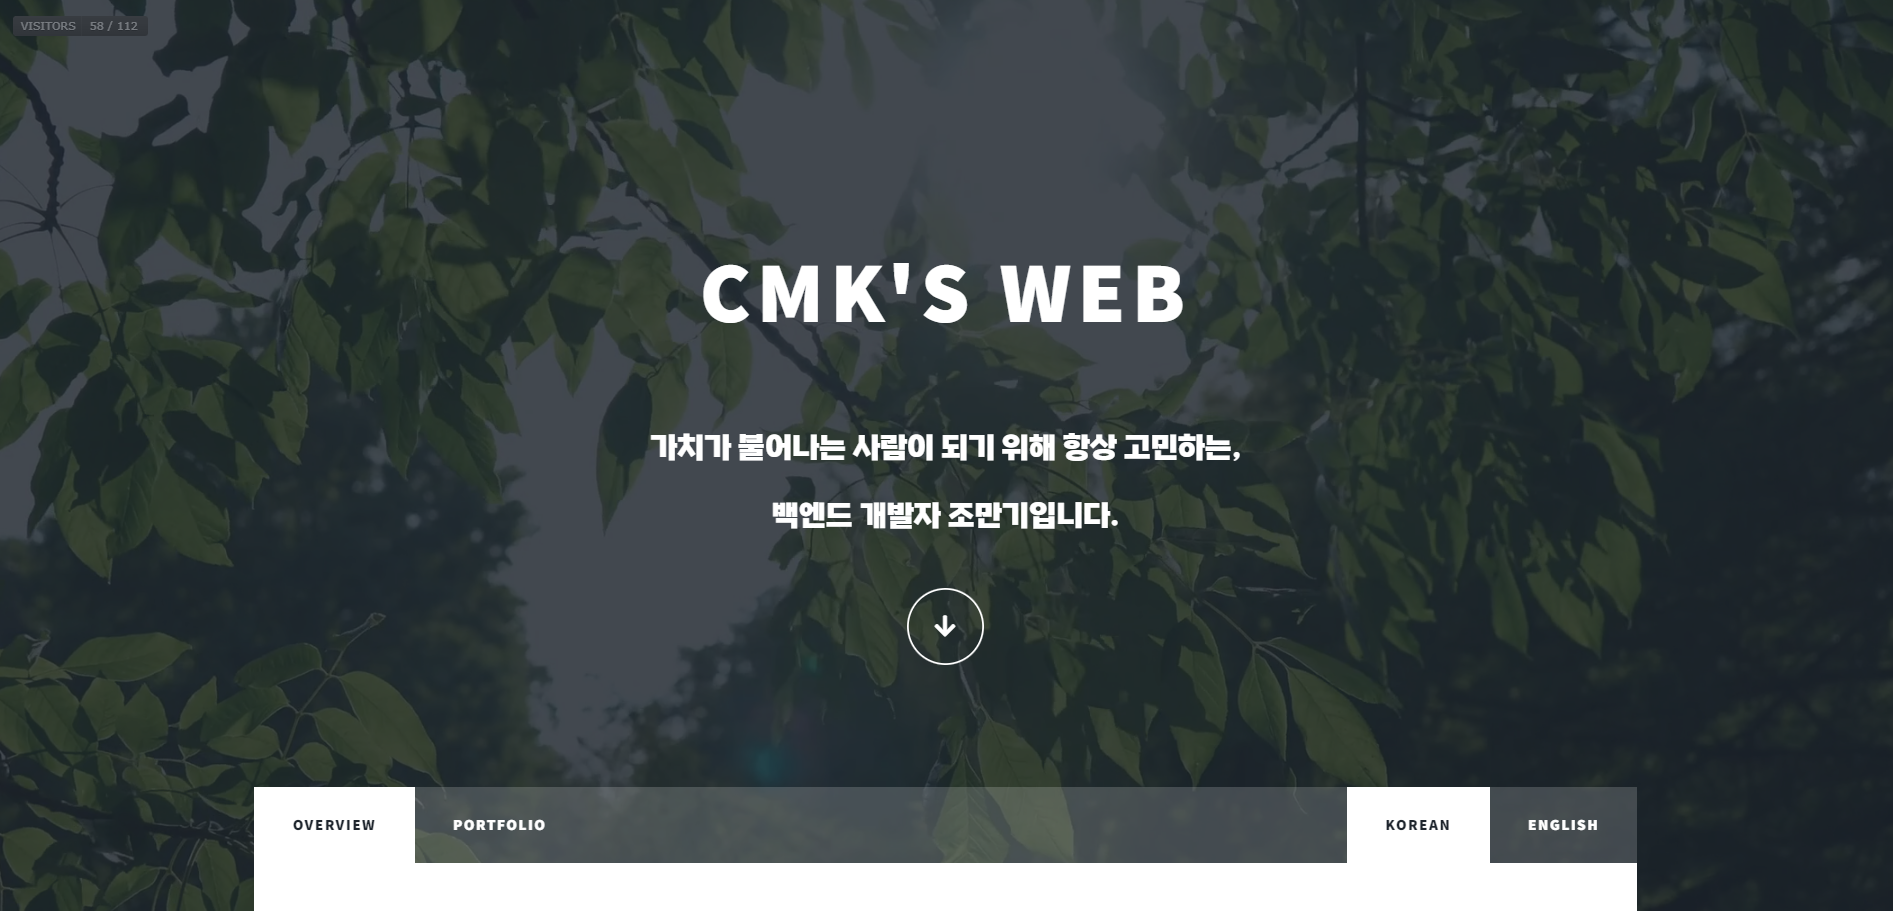
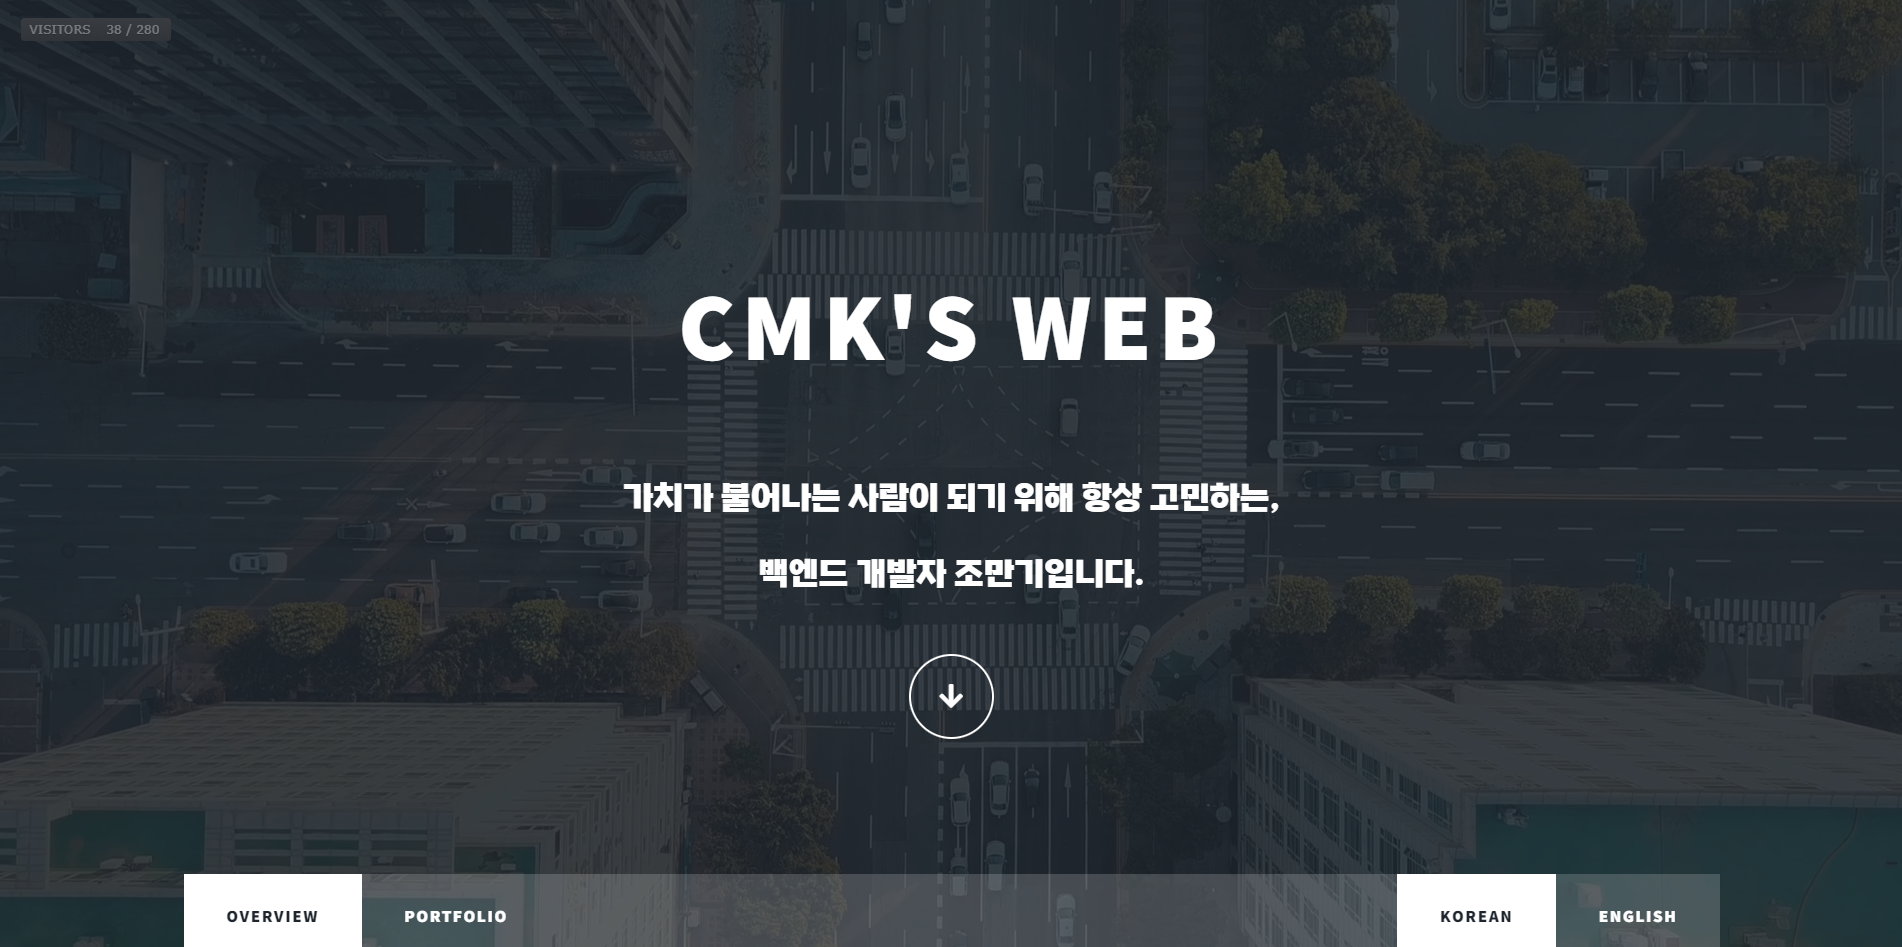
[edit] 배경 다시 복구,,

diff --git a/deploy/index.html b/deploy/index.html
@@ -31,15 +31,24 @@
 
     <!-- Wrapper -->
     <div id="wrapper" class="fade-in">
+
       <!--Background setting-->
       <div class="bg-overlay">
         <img style="margin: 1rem 0rem 0 1rem; width: 7rem;" src="https://hits.seeyoufarm.com/api/count/incr/badge.svg?url=https%3A%2F%2Fwww.chomanki.com&count_bg=%23555555&title_bg=%23555555&title=VISITORS&edge_flat=false"/>
-        <div id="birds"></div>
+        <video
+        class="bg-video"
+        playsinline="playsinline"
+        autoplay="autoplay"
+        muted="muted"
+        loop="loop"
+      >
+        <source src="mp4/bg.mp4" type="video/mp4" />
+      </video>
       </div>
 
       <!-- Intro -->
       <div id="intro">
-        
+
         <h1>CMK's Web</h1>
         
         <p
@@ -63,6 +72,7 @@
             >
           </li>
         </ul>
+
       </div>
 
       <!-- Header -->

diff --git a/deploy/assets/js/vanta.js b/deploy/assets/js/vanta.js
@@ -1,4 +1,5 @@
 window.onload = function() {
+
     VANTA.BIRDS({
         el: "#birds",
         mouseControls: true,
@@ -16,5 +17,25 @@ window.onload = function() {
         quantity: 4.50,
         backgroundAlpha: 1
     })
+
+    VANTA.BIRDS({
+        el: "#birds2",
+        mouseControls: true,
+        touchControls: true,
+        gyroControls: true,
+        minHeight: 200.00,
+        minWidth: 200.00,
+        scale: 1.00,
+        scaleMobile: 1.00,
+        backgroundColor: 0x0,
+        color1: 0xf00ff,
+        color2: 0xf50000,
+        birdSize: 1.50,
+        cohesion: 28.00,
+        quantity: 4.00,
+        backgroundAlpha: 0
+    })
 }
+
+
 

diff --git a/deploy/assets/css/main.css b/deploy/assets/css/main.css
@@ -79,7 +79,7 @@ input, select, textarea {
 	left: 0;
 	height: 100%;
 	width: 100%;
-	opacity: 0.8;
+	opacity: 0.4;
 	z-index: 1;
 }
 video.bg-video {
@@ -103,6 +103,17 @@ div #birds {
 	height: auto;
 	transform: translateX(-50%) translateY(-50%);
 	z-index: -1;
+}
+div #birds2 {
+	position: fixed;
+	top: 50%;
+	left: 50%;
+	min-width: 100%;
+	min-height: 100%;
+	width: auto;
+	height: auto;
+	transform: translateX(-50%) translateY(-50%);
+	z-index: 999;
 }
 /* modal */
 .modal{
@@ -3614,6 +3625,7 @@ div #birds {
 			#modal_dowajoyak h1{
 				font-size: 3rem;
 			}
+
 		}
 /* Header */
 

diff --git a/deploy/generic.html b/deploy/generic.html
@@ -29,7 +29,15 @@
 			<div id="wrapper">
 				<div class="bg-overlay">
 					<img style="margin: 1rem 0rem 0 1rem; width: 7rem;" src="https://hits.seeyoufarm.com/api/count/incr/badge.svg?url=https%3A%2F%2Fwww.chomanki.com&count_bg=%23555555&title_bg=%23555555&title=VISITORS&edge_flat=false"/>
-					<div id="birds"></div>
+					<video
+					class="bg-video"
+					playsinline="playsinline"
+					autoplay="autoplay"
+					muted="muted"
+					loop="loop"
+				  >
+					<source src="mp4/bg.mp4" type="video/mp4" />
+				  </video>
 			  </div>
 				<!-- Header -->
 					<header id="header">

diff --git a/deploy/content/petching.md b/deploy/content/petching.md
@@ -2,7 +2,6 @@
 	<a href="https://github.com/Petching/Petching" target="_blank" class="icon brands alt fa-github" ><span class="label">GitHub</span></a>
 </h1>
 
-</div>
 
 <hr style="margin:0px 0px 1rem 0px;">
 <div id="modal_inContent" style="position: inherit; text-align: left; font-family: 'KBO-Dia-Gothic_bold';">
@@ -64,7 +63,6 @@ Deployment : <a href="https://www.petching.net" target="_blank">https://www.petc
 	- CI/CD configuration(FE+BE, Github Actions, AWS Code Deploy)<br/>
 	- AWS IAM 을 통해 프로젝트 팀원 AWS 리소스 접근 관리 <br/>
 	- 프로젝트 동안 AWS 모든 서비스 관리 및 보수 <br/>
-
 	</p>
 
 </p>
@@ -81,119 +79,21 @@ Deployment : <a href="https://www.petching.net" target="_blank">https://www.petc
 	- Cloud service 의 편의성 및 위대함 <br/>
 </p>
 <hr style="margin: 1rem 0px 1rem 0px;">
-<h3>📑 Project READMD</h3>
-<p style="font-family: 'Pretendard-Regular';">
 
-#### 🐾 Petching 
-<br>
-
-<div align = "center" class="image main" style="margin: 0">
-<a class="image main" style="margin: 0">
-    <img src="https://i.ibb.co/w74rDQb/2023-11-28-5-30-12-removebg-preview.png" alt="2023-11-28-5-30-12-removebg-preview" style="width: 10%;"
-    ></a>
-
-<br>
-
-
-<main align="center">
-    <h4 align="center">🐶 소중한 펫을 원하는 조건으로 맡기고 회원들에게 자랑해보세요! 🐱</h4> 
-</main>
-
-<br>
-
-> 🤔 펫시터와 집사가 더 손쉽게 만날 수는 없을까?<br>
-> <br>
-> 펫시터와 집사 모두 손쉽게 등록할 수 있는 **돌봄 리스트** 기능, <br>
-> 내 펫을 자랑하고 다른 집사들과 소통할 수 있는 **자랑하기** 기능, <br>
-> 사이트 내에서 있을 수 있는 다양한 질문을 답해주는 **고객센터** 기능까지! <br>
-> <br>
-> 🐶 **Petching** 🐱에서는 이 모든 것이 가능합니다 😊
-
-<br>
-
-------------
-
-<br>
-
-#### 🚩 프로젝트 개요
-
-**프로젝트 명** : Petching
-
-**진행 기간** : 23.07.24 ~ 23.11.30
-
-**서비스 URL** : [🐶 Petching 🐱 바로 가기](https://petching.net/)
-
-**노션 문서** : [Notion 바로 가기](https://www.notion.so/Team-PETmatCHING-30be5eeca58e45138f720cbaec70ea19)
-
-
-<br>
-<br>
-
-#### 👪 팀원 소개
-|                                                                      [곽지현](https://github.com/938938)                                                             |                                                                         [김성수](https://github.com/ggggggggithub)                                                          |                                                         [노호준](https://github.com/nowaveosu)                                                                              |                                                                            [염도경](https://github.com/yeomdogyeong)                                                        |                                                                       [김상래](https://github.com/ksr0818)                                                           |                                                                                        [김은정](https://github.com/196code-gray)                                          |                                                                         [조만기](https://github.com/sniij)                                                           |
-|:--------------------------------------------------------------------------------------------------------------------------------------------------------------------:|:---------------------------------------------------------------------------------------------------------------------------------------------------------------------------:|:---------------------------------------------------------------------------------------------------------------------------------------------------------------------------:|:--------------------------------------------------------------------------------------------------------------------------------------------------------------------------:|:--------------------------------------------------------------------------------------------------------------------------------------------------------------------:|:-------------------------------------------------------------------------------------------------------------------------------------------------------------------------:|:--------------------------------------------------------------------------------------------------------------------------------------------------------------------:|
-| <a href="https://github.com/938938"> <img src="https://github.com/Petching/Petching/assets/88307264/380a2d13-8026-4e8a-ae35-f3e1b2884d4e" width=100px alt="_"/> </a> | <a href="https://github.com/ggggggggithub"> <img src="https://github.com/Petching/Petching/assets/88307264/b6aa0934-5b96-4d64-8c1c-7dfa5bb53186" width=100px alt="_"/> </a> |     <a href="https://github.com/938938"> <img src="https://github.com/Petching/Petching/assets/88307264/224a3a76-5a37-4d33-8a36-1a861cb11627" width=100px alt="_"/> </a>    | <a href="https://github.com/yeomdogyeong"> <img src="https://github.com/Petching/Petching/assets/88307264/09c77066-2849-4e56-9365-fbad0e3a049c" width=100px alt="_"/> </a> | <a href="https://github.com/938938"> <img src="https://github.com/Petching/Petching/assets/88307264/e9f67a61-4eaf-48bc-bf40-156b29ab16b1" width=100px alt="_"/> </a> | <a href="https://github.com/938938"> <img src="https://github.com/Petching/Petching/assets/88307264/ab1fac99-817d-49c0-88d6-863341021904" width=100px alt="_"/> </a>      | <a href="https://github.com/938938"> <img src="https://github.com/Petching/Petching/assets/88307264/15b76547-9099-42ee-a0f7-f0596a5667d8" width=100px alt="_"/> </a> |
-|                                                                               프론트엔드                                                                              |                                                                                       프론트엔드                                                                             |                                                                     프론트엔드                                                                                               |                                                                                    프론트엔드                                                                               |                                                                            백엔드                                                                                    |                                                                                                  백엔드                                                                   |                                                                                        백엔드                                                                        |
-
-
-<br>
-<br>
-
-#### 🚩 기술스택
-
-<br>
-<div align = "center" class="image main" style="margin: 0">
-<a class="image main" style="margin: 0">
-    <img src="https://github.com/Petching/Petching/assets/82007474/6eb01093-ce9c-4b13-afb5-21ee97b8fe15" alt="Web_App_Reference_Architecture_2" style="width: 70%;"
-    ></a>
-
-
-<br>
-<br>
-
-#### 🖥 구현 이미지
-
-<br>
-
-| 기능           | 영상                                                                           |
-| ---------------------- | -------------------------------------------------------------------------------------- |
-| 메인페이지 | ![ezgif-5-51d0999497](https://github.com/Petching/Petching/assets/82007474/e83df650-e4d1-40d1-8a02-29ccde404dd5)|
-| 회원가입 | ![ezgif-5-a41f4e3696](https://github.com/Petching/Petching/assets/82007474/4550a79d-85a7-4711-8b61-b3d793b5a60e)|
-| 로그인 |![ezgif-5-c648ecb4b1](https://github.com/Petching/Petching/assets/82007474/79579b47-b710-4474-94bd-58088731c377)|
-| OAuth 로그인 |![ezgif-5-f02403cb5d](https://github.com/Petching/Petching/assets/82007474/7e903e24-a5f6-4172-a78c-b162260654e9)|
-| 돌봄페이지 검색 |![ezgif-5-b7bf14c885](https://github.com/Petching/Petching/assets/82007474/9803e454-c46e-45e9-bc38-07843a456d4f)|
-| 돌봄페이지 글작성 | ![ezgif-5-7557a625f7](https://github.com/Petching/Petching/assets/82007474/744d2aaf-c71e-437d-b78e-9ce622beb61e)|
-| 돌봄페이지 글수정, 삭제 | ![ezgif-5-0ea36eefa0](https://github.com/Petching/Petching/assets/82007474/4cef97bc-6a14-4cba-9c51-50aee40d296b)|
-| 자랑하기 페이지 |![ezgif-5-09b40235db](https://github.com/Petching/Petching/assets/82007474/d4a01270-8ee9-4e11-ad86-a326ded69d6d)|
-| 고객센터 |![ezgif-5-e164d4941a](https://github.com/Petching/Petching/assets/82007474/468b4d02-33eb-450e-8a15-e799eb019362)|
-
-
-<br>
-
-#### 🚩 커밋 컨벤션
-<br>
-
-| Message     | 설명        |
-| ---------------------- | -------------------------------------------------------------------------------------- |
-| [feat]      | 새로운 기능을 추가할 경우        |
-| [fix]      | 버그를 고친 경우        |
-| [design]      | CSS 등 사용자 UI 디자인 변경        |
-| [style]      | 코드 포맷변경, 세미콜론 누락, 코드수정이 없는 경우        |
-| [refactor]      | 프로덕션 코드 리펙토링할 경우        |
-| [comment]      | 필요한 주석 추가 및 변경        |
-| [docs]      | 문서를 수정한 경우        |
-| [test]      | 테스트 코드 작업을할 경우        |
-| [chore]      | 빌드 테스트 업데이트, 패키지 매니저를 설정하는 경우        |
-| [rename]      | 파일 혹은 폴더명을 수정하거나 옮기는 작업만 하는 경우        |
-| [init]      | 브랜치 초기화 및 초기셋팅 관련된 설정일 경우        |
-| [Test]      | 테스트 코드 추가, 이 외 테스트        |
-| [refactor]      | Code refactoring        |
-|[etc]|이 외 기타사항|
-
-
-
-</p>
-</div>
-
+<h3>👨👨👦👦 Members</h3>
+	<p style="font-family: 'Pretendard-Regular'; padding-left: 10px;">
+		A. Front-end : <br />
+		<a href="https://github.com/938938" target="_blank">곽지현</a>
+		<a href="https://github.com/ggggggggithub" target="_blank" >김성수</a>, 
+		<a href="https://github.com/nowaveosu" target="_blank">노호준</a>, 
+		<a href="https://github.com/yeomdogyeong" target="_blank">염도경</a>, 
+		<br />
+		B. Back-end : <br />
+		<a href="https://github.com/ksr0818" target="_blank">김상래</a>,
+		<a href="https://github.com/196code-gray" target="_blank" >김은정</a>,
+		<a href="https://github.com/Sniij" target="_blank">조만기(It's me😁)</a> 
+		<br />
+	</p>
 <hr style="margin: 0rem 0px 5rem 0px;">
 
+</div>

diff --git a/deploy/content/eco.md b/deploy/content/eco.md
@@ -1,0 +1,30 @@
+<h1 class="modal-title fs-5" id="exampleModalLabel" style="text-align: left; font-size: 2rem; padding: 1rem 0 0 1rem" >Side project: Parking API <a href="https://github.com/Sniij/eco" target="_blank" class="icon brands alt fa-github" ><span class="label">GitHub</span></a>
+</h1>
+
+<hr style="margin:0px 0px 1rem 0px;">
+<div id="modal_inContent" style="position: inherit; text-align: left; font-family: 'KBO-Dia-Gothic_bold';">
+    <h3>🔗 URLs</h3>
+    <p>
+        Github : <a href="https://github.com/Sniij/portfolio_cmk" target="_blank">https://github.com/Sniij/eco</a><br/>
+    </p>
+    <hr style="margin: 1rem 0px 1rem 0px;">
+    <h3>🛒 Skills</h3>
+    <p style="font-family: 'Pretendard-Regular';">
+        - Back-end : Java, Spring boot  <br/>
+    </p>
+    <hr style="margin: 1rem 0px 1rem 0px;">
+    <h3>📚 Summary</h3>
+    <p style="font-family: 'Pretendard-Regular';">
+        -
+    </p>
+    <hr style="margin: 1rem 0px 1rem 0px;">
+    <h3>📑 Meaning</h3>
+    <p style="font-family: 'Pretendard-Regular';">
+       -
+    </p>
+
+</div>
+
+<hr style="margin: 0rem 0px 5rem 0px;">
+    
+</div>
